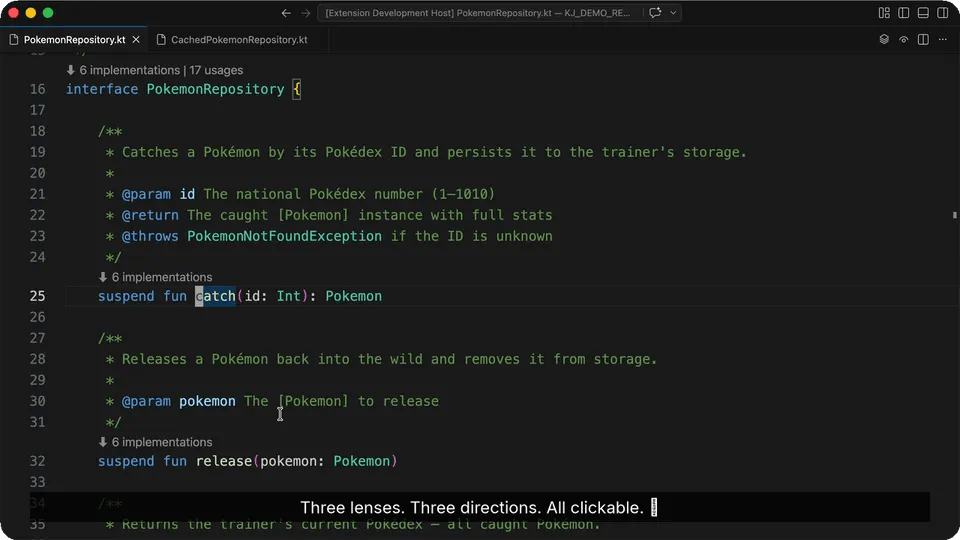
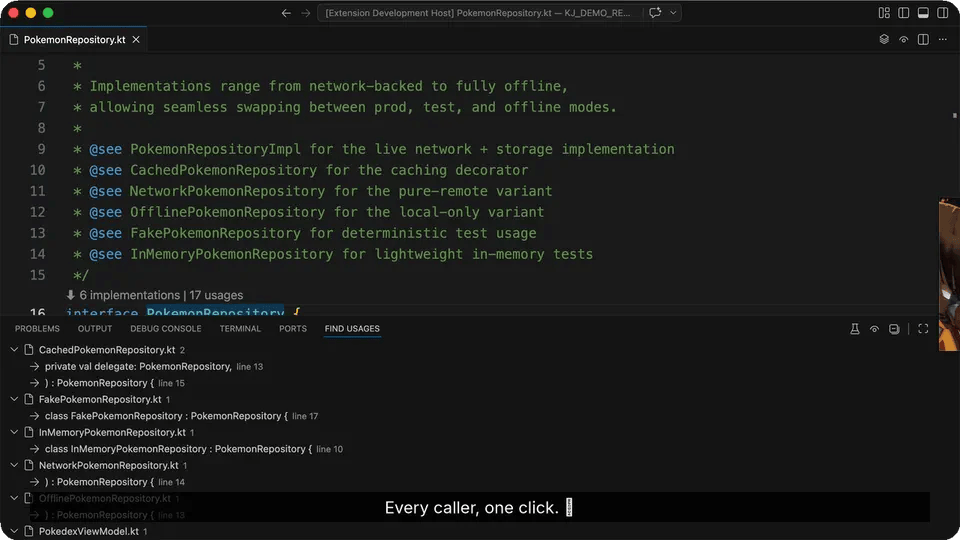
docs(demos): trim code-lens to single-act narrative
code-lens was 34 s / 14.3 MB with three acts (usages, implementations,
overrides) — too dense for a README embed, and the three payoffs
blurred the single message: "counts above symbols are clickable".

Keeps Act 1 (N usages → Find Usages panel) only. The remaining two
behaviours are already covered elsewhere in the README:
- "⬇ N implementations" → absorbed by the Smart Navigation section
- "⬆ overrides"          → absorbed by Core Navigation

Result: 10 s / 4.5 MB (-68%), 4 captioned events, one WOW moment.

diff --git a/scripts/demo/demos/code-lens.demo.ts b/scripts/demo/demos/code-lens.demo.ts
@@ -1,25 +1,15 @@
-import * as vscode from 'vscode';
 import { Stage } from '../lib/stage';
 
 /**
- * Demo: Code Lens — three distinct lenses, one per act, each clicked
- * so the viewer sees the payoff.
+ * Demo: Code Lens — `N usages` on an interface header.
  *
- * Three lenses exist across the fixture:
- *   1. `N usages`            (CodeLensProvider usageOnly)  — interface header
- *   2. `⬇ N implementations` (OverrideGutterProvider class) — interface header
- *   3. `⬆ overrides`         (OverrideGutterProvider method) — impl methods
+ * Single act, single payoff: click the usage count above a contract,
+ * the Find Usages panel opens populated. ~12 s.
  *
- * Narrative:
- *   Setup → Act 1 (click `N usages` → Find Usages panel opens) →
- *   Act 2 (click `⬇ 6 implementations` → QuickPick lists the 6 impls) →
- *   Act 3 (hop to CachedPokemonRepository, click `⬆ overrides` →
- *   jump back to the interface's `catch` method) → closer. ~24 s.
- *
- * WOW: every count is clickable and each one carries a DIFFERENT
- * action — usage panel, impl picker, parent-def reveal — so the demo
- * proves the lenses aren't decorative, they're three separate tools
- * sharing a visual language.
+ * Trimmed from an earlier three-act version (usages / implementations /
+ * overrides) that ran 34 s and weighed 14 MB. One clean moment beats
+ * a feature tour — Code Lens itself is visible on every line of the
+ * setup, so the viewer sees the pattern without a guided tour.
  */
 export default async function record(stage: Stage): Promise<void> {
   await stage.waitForIndexReady();
@@ -35,20 +25,19 @@ export default async function record(stage: Stage): Promise<void> {
   const repoUri  = repo.document.uri;
   const repoName = 'PokemonRepository';
   const repoFqn  = 'com.example.data.PokemonRepository';
-  const repoPkg  = 'com.example.data';
 
-  await stage.pause(2500);
-  await stage.caption('Two lenses on this interface. A third hides on its children.', {
-    duration: 2600,
+  await stage.pause(1800);
+  await stage.caption('Every interface carries a lens. Look up.', {
+    duration: 2400,
   });
 
-  // ── Act 1: `N usages` ────────────────────────────────────────────────
+  // ── Act: `N usages` ──────────────────────────────────────────────────
   // Line 15 is `interface PokemonRepository {` — 29 chars. Callout
   // columns MUST be past end-of-line (>= 29), otherwise the `after`
   // decoration renders inside the word and splits it visually.
   void stage.calloutAt({ line: 15, column: 29 }, 'N usages', 2000);
   await stage.caption('Who touches this contract?', {
-    duration: 2400,
+    duration: 2200,
   });
   // Fire the exact command the lens carries when clicked:
   //   `kotlin-jump.codeLensAction(uri, line, character, name, fqn)`
@@ -60,92 +49,8 @@ export default async function record(stage: Stage): Promise<void> {
     'kotlin-jump.codeLensAction',
     repoUri, 15, 10, repoName, repoFqn,
   );
-  await stage.pause(1800);  // panel renders + viewer parses the list
+  await stage.pause(1600);  // panel renders + viewer parses the list
   await stage.caption('Every caller, one click. 🎯', {
-    duration: 2400,
-  });
-  // Clean the viewport before Act 2.
-  await stage.runCommand('workbench.action.closePanel').then(() => {}, () => {});
-  await stage.pause(400);
-
-  // ── Act 2: `⬇ N implementations` ─────────────────────────────────────
-  // Return to the interface header. Col 20 lands on the left half of
-  // the lens line (before the `|`), where the `⬇ 6 implementations`
-  // arrow sits.
-  await stage.openFile(
-    'src/main/kotlin/com/example/data/PokemonRepository.kt',
-    { line: 15, column: 15 },
-  );
-  void stage.calloutAt({ line: 15, column: 29 }, '⬇ 6 implementations', 2000);
-  await stage.caption('Every concrete repo, right below.', {
-    duration: 2400,
-  });
-  // Fire the exact command the lens carries: `goToClassImpl(name, pkg)`
-  // (OverrideGutterProvider.ts:52-58). Use the NON-BLOCKING variant
-  // because the command `await`s `showQuickPick`, which only resolves
-  // when the user picks. If we awaited it, the follow-up `accept…`
-  // step would never run and the demo would stall waiting for a real
-  // human interaction.
-  await stage.clickLensOpen(
-    '⬇ 6 implementations → Go to Implementation',
-    'kotlin-jump.goToClassImpl',
-    repoName, repoPkg,
-  );
-  // Let the QuickPick render + the viewer read the list (6 concrete
-  // impls, alphabetical: Cached, Fake, InMemory, Network, Offline,
-  // PokemonRepositoryImpl — anonymous entries pushed to the bottom by
-  // the sort added in extension.ts).
-  await stage.pause(1800);
-  await stage.caption('Six repos. Grab the caching one.', {
-    duration: 2400,
-  });
-  // Accept the FIRST item (CachedPokemonRepository after the sort).
-  // This lets the viewer watch the QuickPick resolve into a real
-  // navigation — no "window just closes" jarring cut.
-  await stage.runCommand('workbench.action.acceptSelectedQuickOpenItem');
-  await stage.waitForEditor('CachedPokemonRepository.kt');
-  await stage.pause(900);
-  await stage.caption('Landed. Same contract, concrete impl. ✨', {
     duration: 2200,
-  });
-
-  // ── Act 3: `⬆ overrides` ─────────────────────────────────────────────
-  // CachedPokemonRepository.kt — line 18 (0-idx) = line 19 (1-idx) =
-  // `    override suspend fun catch(id: Int): Pokemon {`. The lens
-  // "⬆ overrides" renders just above. Caret on the METHOD NAME
-  // (`catch` starts at col 25) — command handlers read the symbol
-  // under the cursor, so landing on a keyword would resolve nothing.
-  const impl = await stage.openFile(
-    'src/main/kotlin/com/example/data/CachedPokemonRepository.kt',
-    { line: 18, column: 25 },
-  );
-  await stage.dwellOn({ line: 18, column: 25 }, 900);
-  // Arrow at col 38 (end of `catch(id: Int): Pokemon`) — above the
-  // method name is where the lens anchor reads best.
-  // Past end-of-line (line is 50 chars: `    override suspend fun catch(id: Int): Pokemon {`)
-  // Col 38 used to land on `)` of `Int)`, splitting the signature visually.
-  void stage.calloutAt({ line: 18, column: 50 }, '⬆ overrides', 2000);
-  await stage.caption('Back to the contract, one click up.', {
-    duration: 2400,
-  });
-  // Click → `kotlin-jump.revealDefinitionAt(uri, position)` runs the
-  // definition provider at the `catch` name and opens the resulting
-  // Location (interface declaration at line 24 0-idx). The method name
-  // starts at col 25 in `    override suspend fun catch(...)`.
-  await stage.clickLens(
-    '⬆ overrides → Reveal Definition',
-    'kotlin-jump.revealDefinitionAt',
-    impl.document.uri,
-    new vscode.Position(18, 25),
-  );
-  await stage.waitForEditor('PokemonRepository.kt', 24);
-  await stage.pause(1200);
-  await stage.caption('Same method. Straight back to where it was declared.', {
-    duration: 2400,
-  });
-
-  // ── Closer ───────────────────────────────────────────────────────────
-  await stage.caption('Three lenses. Three directions. All clickable. 🧭', {
-    duration: 2800,
   });
 }
